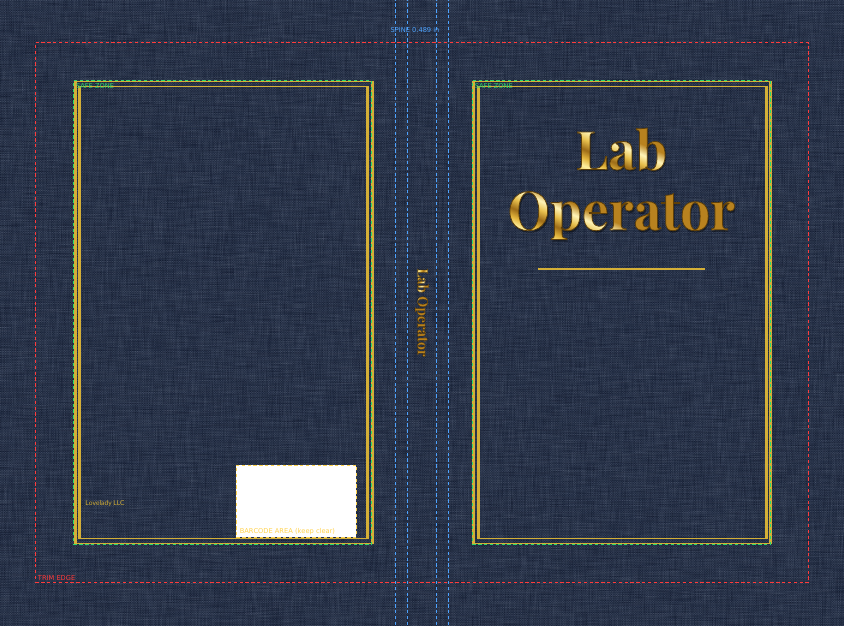
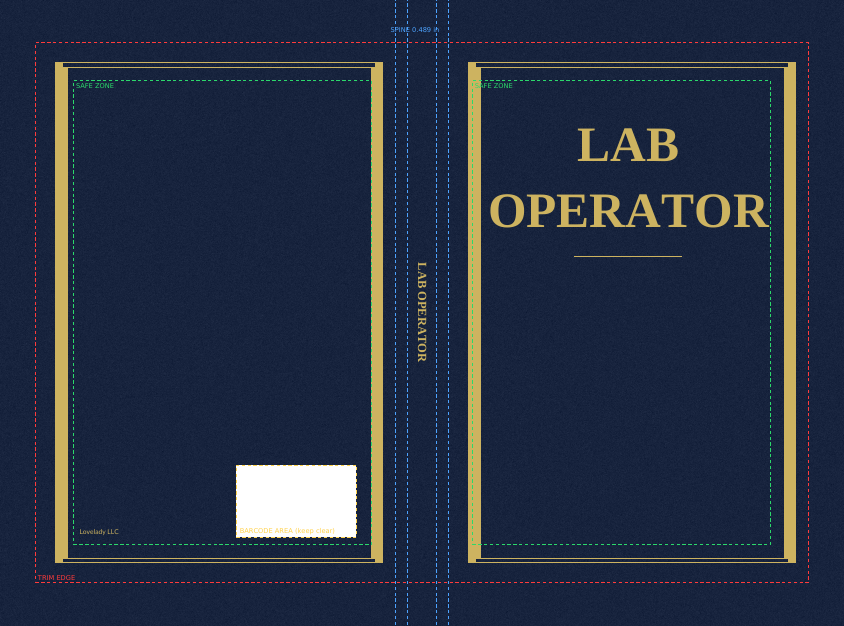
Jarvis notes and feedback summary sync

Changed region(s): [[0.0, 0.0, 1.0, 1.0]]

diff --git a/memory/inbox/queue-results.md b/memory/inbox/queue-results.md
@@ -1,59 +1,4 @@
-5', 'what': 'play_end', 'info': ''}
-05:54:50 client {'sid': 'phes14a5', 'what': 'play_start', 'info': ''}
-05:54:52 client {'sid': 'phes14a5', 'what': 'play_end', 'info': ''}
-05:54:52 state {'sid': 'phes14a5', 'frm': 'speaking', 'to': 'follow', 'why': 'he finished talking'}
-05:54:56 hangup {'sid': 'phes14a5', 'why': 'you ended it', 'after': 3.3, 'state': 'follow'}
-05:54:56 state {'sid': 'phes14a5', 'frm': 'follow', 'to': 'idle', 'why': 'hung up: you ended it'}
-05:55:02 client {'sid': 'phes14a5', 'what': 'page_hidden', 'info': ''}
-13:53:20 client {'sid': 'phtnri1w', 'what': 'page_hidden', 'info': ''}
-13:53:49 client {'sid': 'phtnri1w', 'what': 'page_visible', 'info': ''}
-13:53:51 client {'sid': 'phtnri1w', 'what': 'page_hidden', 'info': ''}
-(exit 0)
-```
-
-## 2026-11-05 15:04:01 tasks/queue/030-popup-font.sh
-```
-== files
-  
-4096 11-05_14:57 .
-4096 11-05_04:28 ..
-4096 11-04_14:52 backgrounds
-4348 10-20_20:23 crop_api.py
-1147 10-26_22:14 device-names.json
-138 10-26_22:11 device-names.json.bak-oct26
-4096 10-20_21:15 fontcache
-1841 10-25_22:21 health_api.py
-3025 10-26_22:23 hub_api.py
-2913 10-22_16:25 hub_api.py.bak-jh
-2949 10-26_22:23 hub_api.py.bak-names
-11098 11-05_03:04 hub.html
-7400 10-30_14:51 hub.html.bak-cr
-8936 10-30_15:25 hub.html.bak-crop
-8936 10-30_15:20 hub.html.bak-dbg
-8992 10-30_15:28 hub.html.bak-ha
-7093 10-25_22:22 hub.html.bak-hl
-7550 10-30_15:01 hub.html.bak-imm
-8850 10-30_15:10 hub.html.bak-imm2
-7291 10-25_23:00 hub.html.bak-ly
-10776 11-02_00:51 hub.html.bak-markets
-8920 10-30_15:35 hub.html.bak-merge
-10449 10-30_15:43 hub.html.bak-sheet
-9377 11-05_02:22 index.html
-8143 11-05_02:22 index.html.bak-glass
-7351 10-25_23:00 index.html.bak-ly
-8072 10-25_23:19 index.html.bak-ly2
-4896 10-23_11:48 janitor_api.py
-7216 10-23_11:48 janitor.html
-== settings (font/theme keys only)
-{'font': 'Great Vibes', 'text_color': '#000000'}
-== reply popup code in index.html
-62:  else if(m.name==='transcript'){$('you').textContent=m.text;show('thinking','Thinking');hideLater(30000);}
-== font rules in theme.html / index.html
-theme.html:16:var bu=g('bubble');if(bu){if(s.glass===false){bu.style.cssText='background:none;border:0;box-shadow:none;-webkit-backdrop-filter:none;backdrop-filter:none;padding:0';}
-index.html:8: font-family:"Segoe UI",system-ui,sans-serif;height:100vh;overflow:hidden;display:flex;
-index.html:10:#clock{font-size:15vw;font-weight:200;letter-spacing:.02em;color:var(--cyan);
-index.html:12:#date{font-size:2.6vw;color:var(--dim);letter-spacing:.2em;text-transform:uppercase;margin-bottom:4vh}
-index.html:13:#wx{display:flex;gap:4vw;align-items:baseline;font-size:2.4vw;color:var(--dim)}
+display:flex;gap:4vw;align-items:baseline;font-size:2.4vw;color:var(--dim)}
 index.html:14:#temp{font-size:7vw;font-weight:200;color:#e8f4ff}
 index.html:15:#cond{font-size:3vw;color:#e8f4ff}
 index.html:18: box-shadow:0 0 40px rgba(56,232,255,.2);backdrop-filter:blur(12px);
@@ -559,5 +504,51 @@ drwxrwxr-x 4 kylarlovelady kylarlovelady    4096 Nov  5 17:30 ..
 -rw-rw-r-- 1 kylarlovelady kylarlovelady    7365 Nov  5 17:46 page1.png
 -rw-rw-r-- 1 kylarlovelady kylarlovelady    1569 Nov  5 17:46 page2.png
 -rw-rw-r-- 1 kylarlovelady kylarlovelady    1593 Nov  5 17:46 page3.png
+(exit 0)
+```
+
+## 2026-11-05 17:49:01 tasks/queue/045-kdp-build-approved-look.sh
+```
+fonts found: ['Bitstream Vera', 'Caladea', 'Carlito', 'DejaVu Sans', 'DejaVu Serif', 'FreeSans', 'FreeSerif', 'Lato', 'Liberation Mono', 'Liberation Sans', 'Liberation Serif', 'Open Sans', 'Playfair Display', 'Roboto']
+title font: Liberation Serif | interior font: Lato
+== process-operator-a FAILS: none | spine 0.489
+== process-operator-b FAILS: none | spine 0.489
+== process-operator-c FAILS: none | spine 0.489
+== process-operator-e FAILS: none | spine 0.489
+== lab-operator-a FAILS: none | spine 0.489
+== lab-operator-b FAILS: none | spine 0.489
+== lab-operator-c FAILS: none | spine 0.489
+== lab-operator-e FAILS: none | spine 0.489
+sheet done
+-rw-rw-r-- 1 kylarlovelady kylarlovelady 1954345 Nov  5 17:50 /home/kylarlovelady/starship/memory/inbox/kdp-preview/contact-sheet.png
+
+/home/kylarlovelady/starship/memory/inbox/kdp-preview/lab-operator-a:
+total 2580
+drwxrwxr-x  2 kylarlovelady kylarlovelady    4096 Nov  5 17:49 .
+drwxrwxr-x 10 kylarlovelady kylarlovelady    4096 Nov  5 17:50 ..
+-rw-rw-r--  1 kylarlovelady kylarlovelady  371246 Nov  5 17:49 cover-guides.png
+-rw-rw-r--  1 kylarlovelady kylarlovelady 1306165 Nov  5 17:49 cover-hi.png
+-rw-rw-r--  1 kylarlovelady kylarlovelady  350388 Nov  5 17:49 cover.png
+-rw-rw-r--  1 kylarlovelady kylarlovelady  583258 Nov  5 17:49 front.png
+-rw-rw-r--  1 kylarlovelady kylarlovelady    7365 Nov  5 17:49 page1.png
+-rw-rw-r--  1 kylarlovelady kylarlovelady    1569 Nov  5 17:49 page2.png
+-rw-rw-r--  1 kylarlovelady kylarlovelady    1593 Nov  5 17:46 page3.png
+
+/home/kylarlovelady/starship/memory/inbox/kdp-preview/lab-operator-b:
+total 2540
+drwxrwxr-x  2 kylarlovelady kylarlovelady    4096 Nov  5 17:50 .
+drwxrwxr-x 10 kylarlovelady kylarlovelady    4096 Nov  5 17:50 ..
+-rw-rw-r--  1 kylarlovelady kylarlovelady  365446 Nov  5 17:50 cover-guides.png
+-rw-rw-r--  1 kylarlovelady kylarlovelady 1283146 Nov  5 17:50 cover-hi.png
+-rw-rw-r--  1 kylarlovelady kylarlovelady  343754 Nov  5 17:50 cover.png
+-rw-rw-r--  1 kylarlovelady kylarlovelady  578551 Nov  5 17:50 front.png
+-rw-rw-r--  1 kylarlovelady kylarlovelady    7365 Nov  5 17:50 page1.png
+-rw-rw-r--  1 kylarlovelady kylarlovelady    1569 Nov  5 17:50 page2.png
+
+/home/kylarlovelady/starship/memory/inbox/kdp-preview/lab-operator-c:
+total 2556
+drwxrwxr-x  2 kylarlovelady kylarlovelady    4096 Nov  5 17:50 .
+drwxrwxr-x 10 kylarlovelady kylarlovelady    4096 Nov  5 17:50 ..
+-rw-rw-r--  1 kylarlovelady kylarlovelady  366146 Nov  5 17:50 cover-guides.png
 (exit 0)
 ```

diff --git a/memory/inbox/pi-status.md b/memory/inbox/pi-status.md
@@ -2,7 +2,7 @@
 Freshness = the git commit time of this file. Ages below are counted at the moment of the snapshot.
 
 ## Pi
-- up 1 week, 4 days, 6 hours, 46 minutes; temp 42.2'C; throttled flags 0x0 (0x0 is clean); memory 60%; disk 10%
+- up 1 week, 4 days, 6 hours, 51 minutes; temp 45.5'C; throttled flags 0x0 (0x0 is clean); memory 59%; disk 10%
 
 ## Services
 - active: market-agent, phone-voice, tailscaled, docker, hub-dashboard, hub-devices, hub-kdp, hub-lights, hub-memlog, hub-oled, hub-outage, hub-satellite, hub-voice, hub-watchdog
@@ -11,13 +11,13 @@ Freshness = the git commit time of this file. Ages below are counted at the mome
 - containers: openwakeword Up 6 days; whisper Up 6 days (healthy); piper Up 6 days (healthy); pihole Up 22 hours (healthy); homeassistant Up 16 hours
 
 ## Sync and schedule
-- Pi repo copy at: 35d5cf7 77 seconds ago: Queue 044: 043 was byte-identical to 042 so the Pi skipped it
+- Pi repo copy at: ea65791 4 minutes ago: KDP: match Kylar's approved look (flat lettering, fine grain, CAPS, thin double border), build 8 books (queue 045)
 - last notes sync result: notes pushed to the repo
 - cron jobs (script names): crew-update.sh, market-watchdog, market-supervisor, market-lab, memory_sync.sh, starship-alerts, kalshi-data-sync, task-queue
 
 ## Markets agent (practice money)
 - agent data last written: 0 min ago; mode shown by the agent: ?; live-run flags: {"live_run_active": false, "last_run_live": false}
-- supervisor report (39 min ago), first lines:
+- supervisor report (43 min ago), first lines:
     MARKET AGENT PROGRESS  Thu 05 Nov 17:07
     
     1. ALIVE
